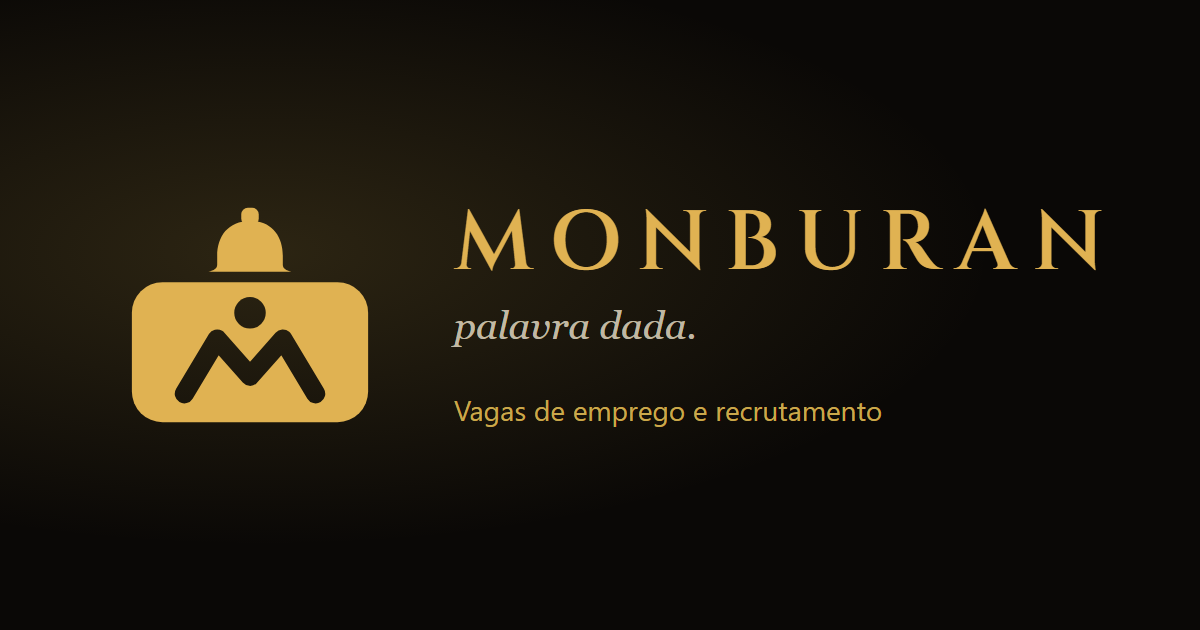
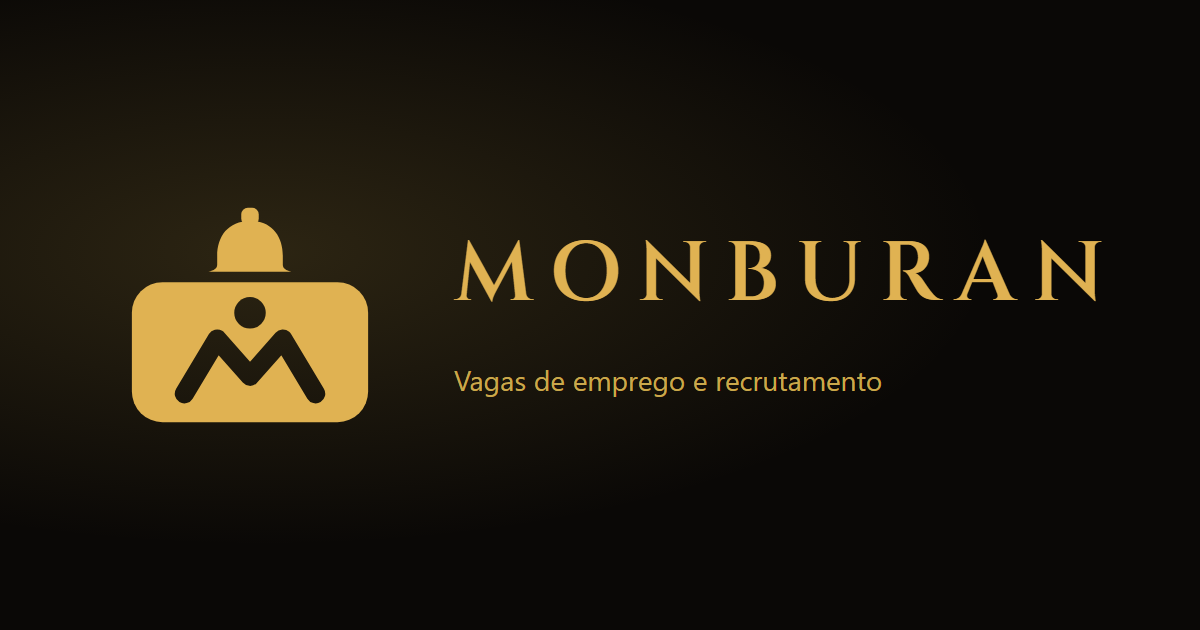
feat: rodapé enxuto e marca sem a frase palavra dada
O rodapé fica com a marca, uma linha de links conforme o papel e os créditos, tudo centralizado. A frase palavra dada sai do cabeçalho, do rodapé, das telas de entrada, da abertura do app e da imagem de compartilhamento.

Changed region(s): [[0.37, 0.3317, 0.925, 0.5429], [0.37, 0.573, 0.74, 0.6937]]

diff --git a/src/Monburan.Web/wwwroot/shell.css b/src/Monburan.Web/wwwroot/shell.css
@@ -31,7 +31,6 @@
     .brand-mark__metal { fill: var(--brand-metal); }
     .brand__copy { display: flex; flex-direction: column; line-height: var(--lh-tight); }
     .brand__copy strong { font-family: var(--f-display); font-size: var(--fs-md); font-weight: var(--fw-semibold); letter-spacing: 0.16em; text-transform: uppercase; }
-    .brand__copy small { margin-top: 0.125rem; color: var(--tx-muted); font-family: Georgia, "Times New Roman", serif; font-size: var(--fs-sm); font-style: italic; }
 
     /* ---- Estrutura ---- */
     .app-shell { display: flex; width: 100%; min-height: 100vh; background: var(--bg); }
@@ -158,14 +157,11 @@
 
     /* ---- Rodapé: marca, colunas por público e a linha legal ---- */
     .site-footer { border-top: 1px solid var(--border); background: var(--bg-card); }
-    .site-footer__inner { display: grid; justify-items: center; text-align: center; width: min(calc(100% - 2 * var(--gutter)), var(--container)); gap: var(--s-8); margin-inline: auto; padding-block: var(--s-10) var(--s-6); grid-template-columns: minmax(0, 1fr); }
-    .site-footer__brand p { max-width: 34ch; margin: var(--s-3) auto 0; color: var(--tx-2); font-size: var(--fs-sm); }
-    .site-footer__nav { display: grid; width: min(100%, 48rem); gap: var(--s-6); grid-template-columns: repeat(auto-fit, minmax(10rem, 1fr)); }
-    .site-footer__col { display: flex; flex-direction: column; align-items: center; }
-    .site-footer__title { margin: 0 0 var(--s-2); color: var(--tx); font-size: var(--fs-sm); font-weight: var(--fw-bold); }
-    .site-footer__col a { display: inline-flex; min-height: var(--control-h-sm); align-items: center; color: var(--tx-2); font-size: var(--fs-sm); text-decoration: none; }
-    .site-footer__col a:hover { color: var(--gold-d); text-decoration: underline; }
-    .site-footer__legal { width: 100%; margin: 0; padding-top: var(--s-5); border-top: 1px solid var(--border); color: var(--tx-muted); font-size: var(--fs-sm); grid-column: 1 / -1; }
+    .site-footer__inner { display: grid; width: min(calc(100% - 2 * var(--gutter)), var(--container)); gap: var(--s-4); justify-items: center; margin-inline: auto; padding-block: var(--s-8) var(--s-6); text-align: center; }
+    .site-footer__nav { display: flex; flex-wrap: wrap; justify-content: center; gap: 0 var(--s-5); }
+    .site-footer__nav a { display: inline-flex; min-height: var(--control-h-sm); align-items: center; color: var(--tx-2); font-size: var(--fs-sm); text-decoration: none; }
+    .site-footer__nav a:hover { color: var(--gold-d); text-decoration: underline; }
+    .site-footer__legal { margin: 0; color: var(--tx-muted); font-size: var(--fs-sm); }
 
     /* ---- Telas de entrada (login, cadastro, recuperação) ---- */
     .auth-header { display: flex; min-height: var(--topbar-h); align-items: center; justify-content: space-between; gap: var(--s-4); padding-inline: var(--gutter); border-bottom: 1px solid var(--border); background: var(--topbar-bg); }

diff --git a/src/Monburan.Mobile/wwwroot/brand.css b/src/Monburan.Mobile/wwwroot/brand.css
@@ -19,6 +19,5 @@ html[data-theme="light"] .app-splash { background: radial-gradient(ellipse at 50
 .app-splash__mark { width: 7rem; height: 7rem; }
 .app-splash__mark .brand-mark__bell { transform-box: fill-box; transform-origin: 50% 0; animation: app-splash-swing 1.4s cubic-bezier(.76, 0, .24, 1) infinite; }
 .app-splash__name { margin: 0; font-family: "Cinzel", Georgia, serif; font-size: 1.75rem; font-weight: 600; letter-spacing: .2em; text-transform: uppercase; }
-.app-splash__tagline { margin: 0; font-family: Georgia, "Times New Roman", serif; font-size: 1rem; font-style: italic; opacity: .8; }
 @keyframes app-splash-swing { 0%, 100% { transform: rotate(0); } 25% { transform: rotate(-9deg); } 75% { transform: rotate(9deg); } }
 @media (prefers-reduced-motion: reduce) { .app-splash__mark .brand-mark__bell { animation: none; } }

diff --git a/src/Monburan.Mobile/wwwroot/index.html b/src/Monburan.Mobile/wwwroot/index.html
@@ -25,7 +25,6 @@
                 <g class="brand-mark__metal" transform="translate(0 1.5)"><g class="brand-mark__bell"><rect x="30" y="6" width="4" height="4" rx="1.5" /><path d="M32 9 C27 9 24.5 12.5 24.5 17 V19 C24.5 19.8 23.8 20.3 22.5 20.6 H41.5 C40.2 20.3 39.5 19.8 39.5 19 V17 C39.5 12.5 37 9 32 9Z" /></g><rect x="5" y="23" width="54" height="32" rx="7" mask="url(#splash-cut)" /></g>
             </svg>
             <p class="app-splash__name">Monburan</p>
-            <p class="app-splash__tagline">palavra dada.</p>
         </div>
     </div>
 

diff --git a/src/Monburan.Mobile/wwwroot/app.css b/src/Monburan.Mobile/wwwroot/app.css
@@ -670,7 +670,6 @@ textarea.input { min-height: 6.5rem; resize: vertical; }
 
 .auth-hero .brand-mark .brand-mark__star { width: 2.75rem; height: 2.75rem; }
 
-.auth-tagline { margin: var(--s-1) 0 0; color: var(--tx-2); font-family: Georgia, "Times New Roman", serif; font-size: var(--fs-md); font-style: italic; }
 .auth-hero p { margin: var(--s-2) 0 0; color: var(--tx-2); }
 
 .auth-links { margin-top: var(--s-5); color: var(--tx-2); font-size: var(--fs-sm); text-align: center; }

diff --git a/DESIGN.md b/DESIGN.md
@@ -19,7 +19,7 @@ cor, ícone ou componente, procure aqui. As regras marcadas com ✔ são verific
 - **Nome:** Monburan é a leitura japonesa de *Mont Blanc*, a "montanha branca". A inspiração vem da lenda do navegador
   e explorador que encontrou uma cidade de ouro, foi chamado de mentiroso e teve a verdade provada séculos depois por um
   sino dourado. A marca fala de **jornada** (a montanha), **chamado** (o sino que anuncia que algo valioso foi
-  encontrado) e **palavra cumprida** (o ouro que provou a verdade; "palavra dada."). A identidade é original: não usa personagens,
+  encontrado) e **valor** (o ouro). A identidade é original: não usa personagens,
   nomes nem elementos visuais de nenhuma obra.
 - **Marca — maleta, sino e pico:** a **maleta** (o trabalho) com um **sino** pequeno no lugar da alça (o chamado da
   oportunidade) e, recortado no corpo, o **Pico**: o M de montanha que também é uma pessoa de braços erguidos (a vaga
@@ -28,7 +28,7 @@ cor, ícone ou componente, procure aqui. As regras marcadas com ✔ são verific
     máscara (mostram o fundo de onde a marca estiver); a cor é o token `--brand-metal`: ouro #E0B252 no tema escuro,
     bronze #8A5500 no claro.
   - Fora de uso: perfis de personagem ou qualquer figura reconhecível de obra existente.
-- **Assinatura:** marca + "MONBURAN" em Cinzel 600 caixa-alta espaçada + "palavra dada." em serifa itálica (`Brand`).
+- **Assinatura:** marca + "MONBURAN" em Cinzel 600 caixa-alta espaçada (`Brand`), sem frase de efeito.
 - **Ícones do produto:** `favicon.svg` e PNGs (16, 32, 180, 192, 512 e *maskable*) com a marca sobre a tinta
   #141008; imagem de compartilhamento `brand/og-image.png` (1200×630); no app,
   `Resources/AppIcon` (fundo #141008) e `Resources/Splash` (fundo #0A0806).
